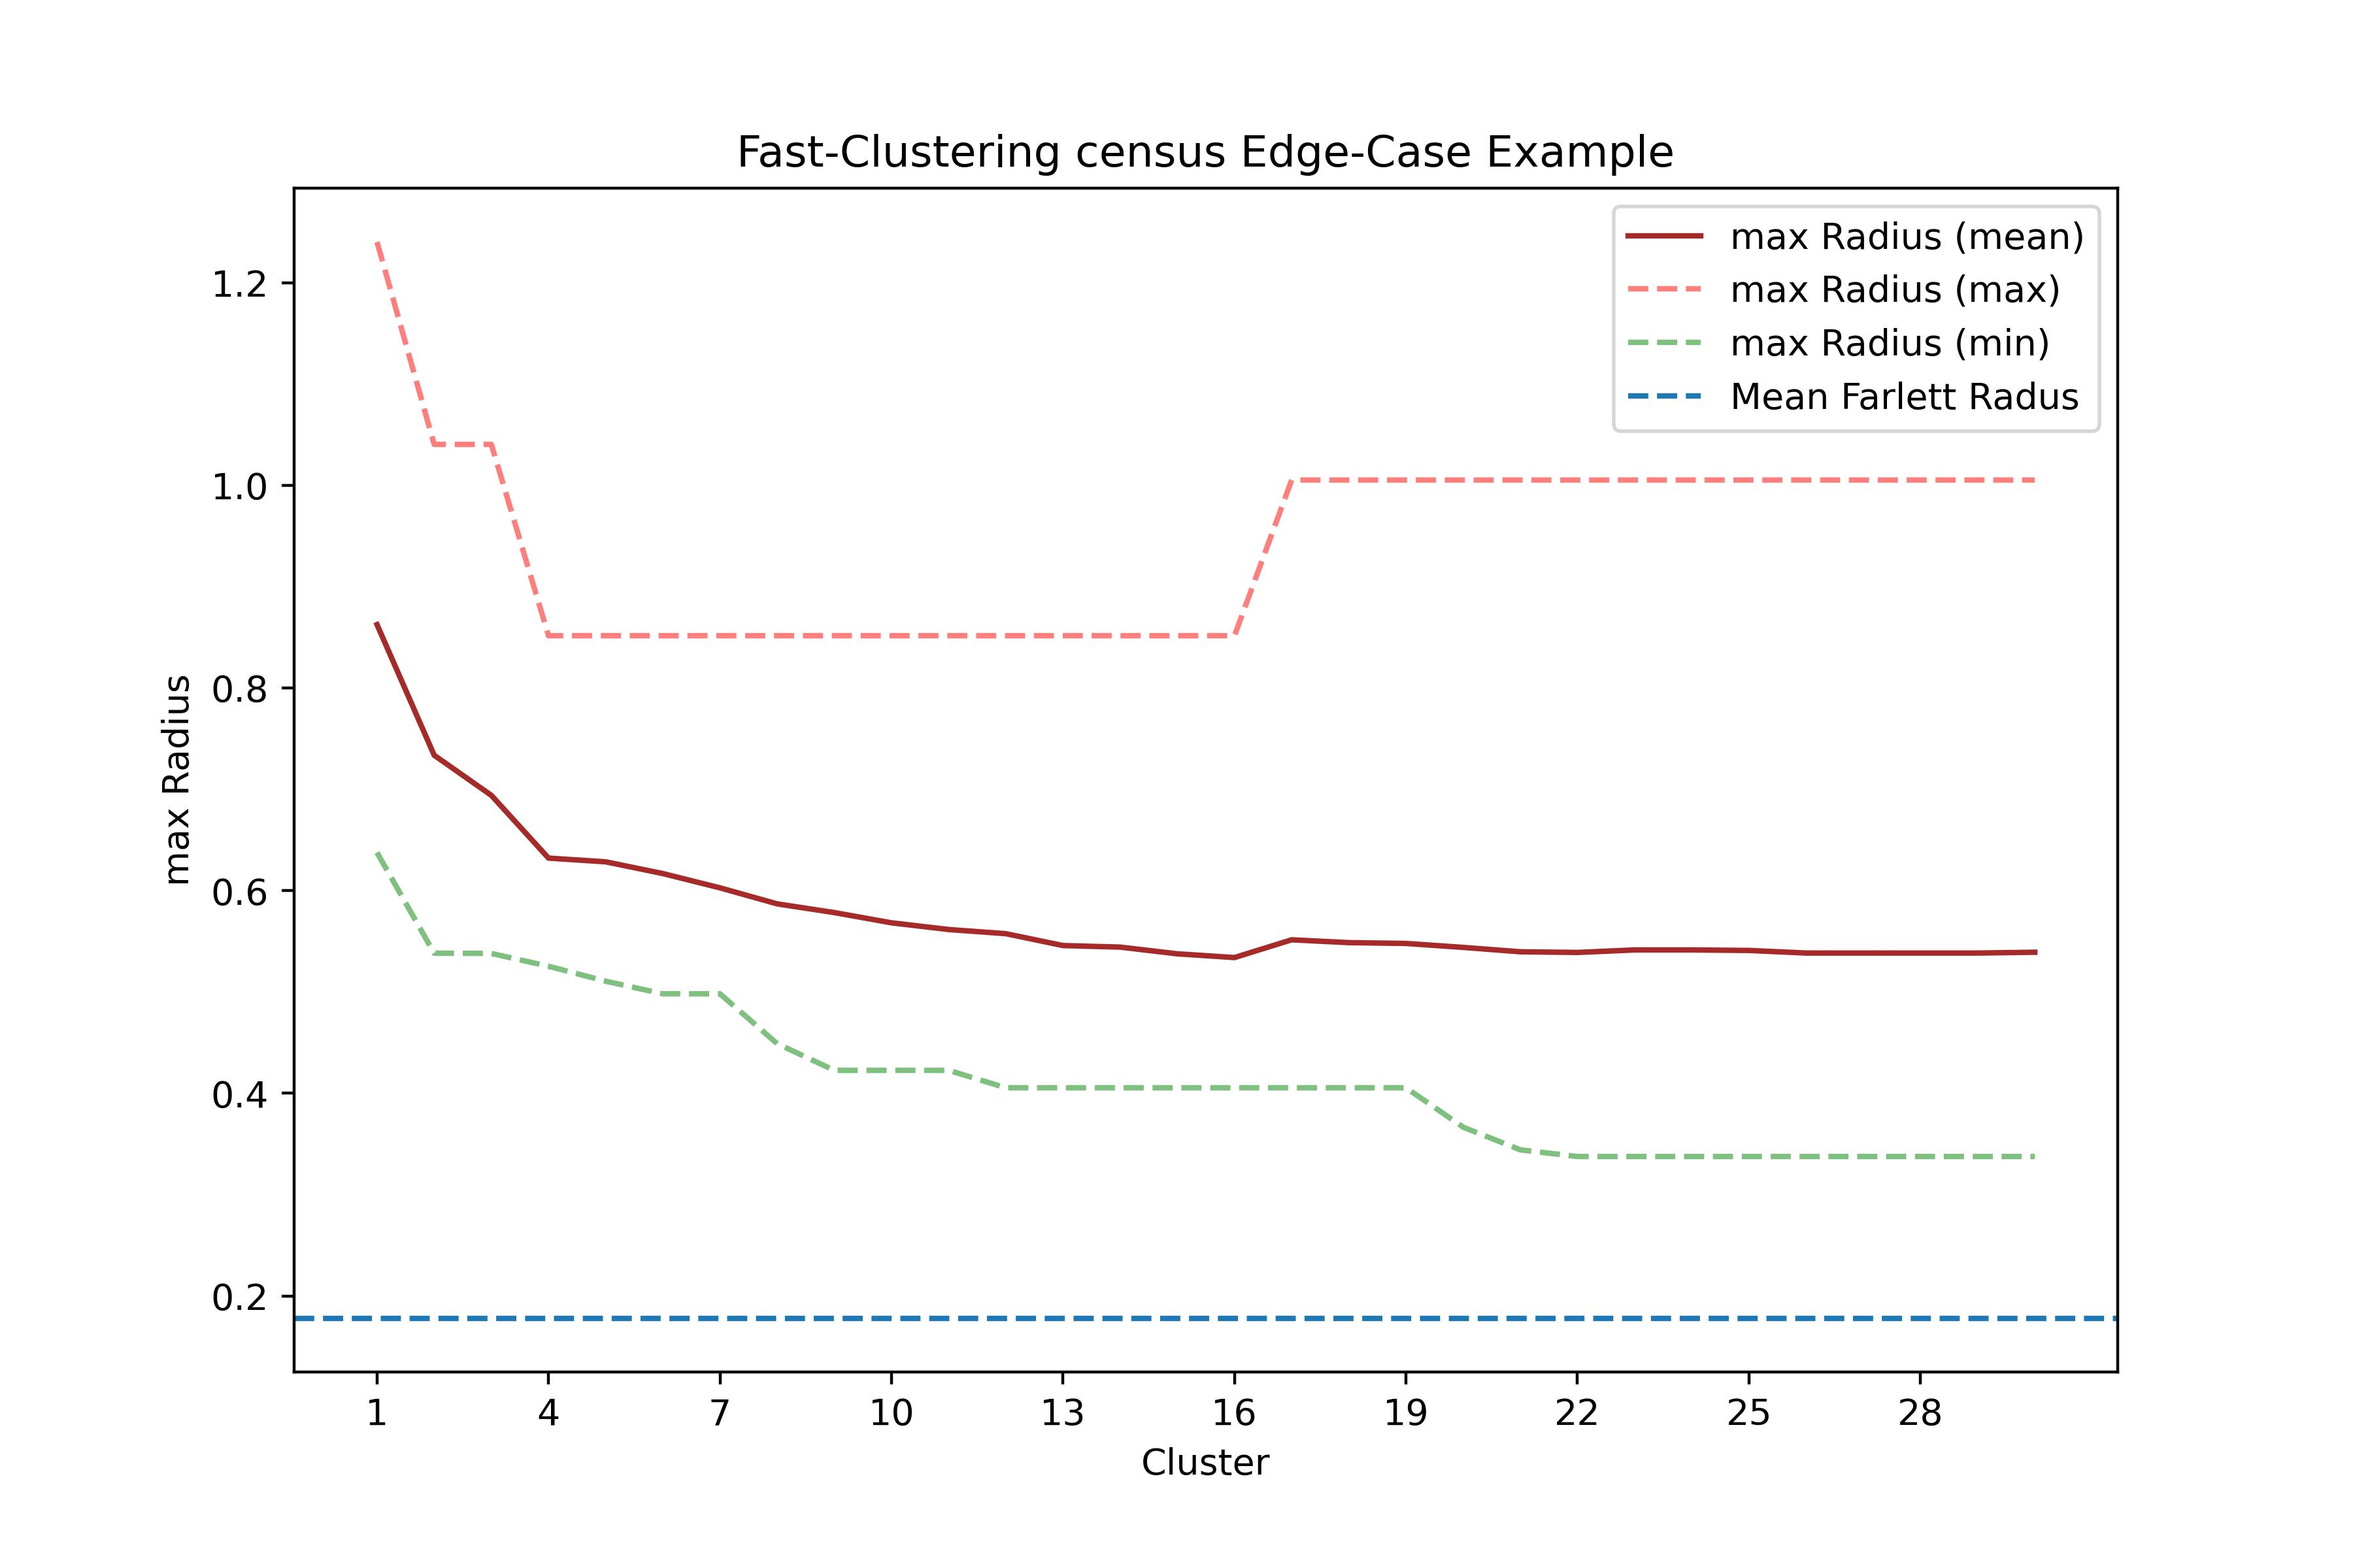
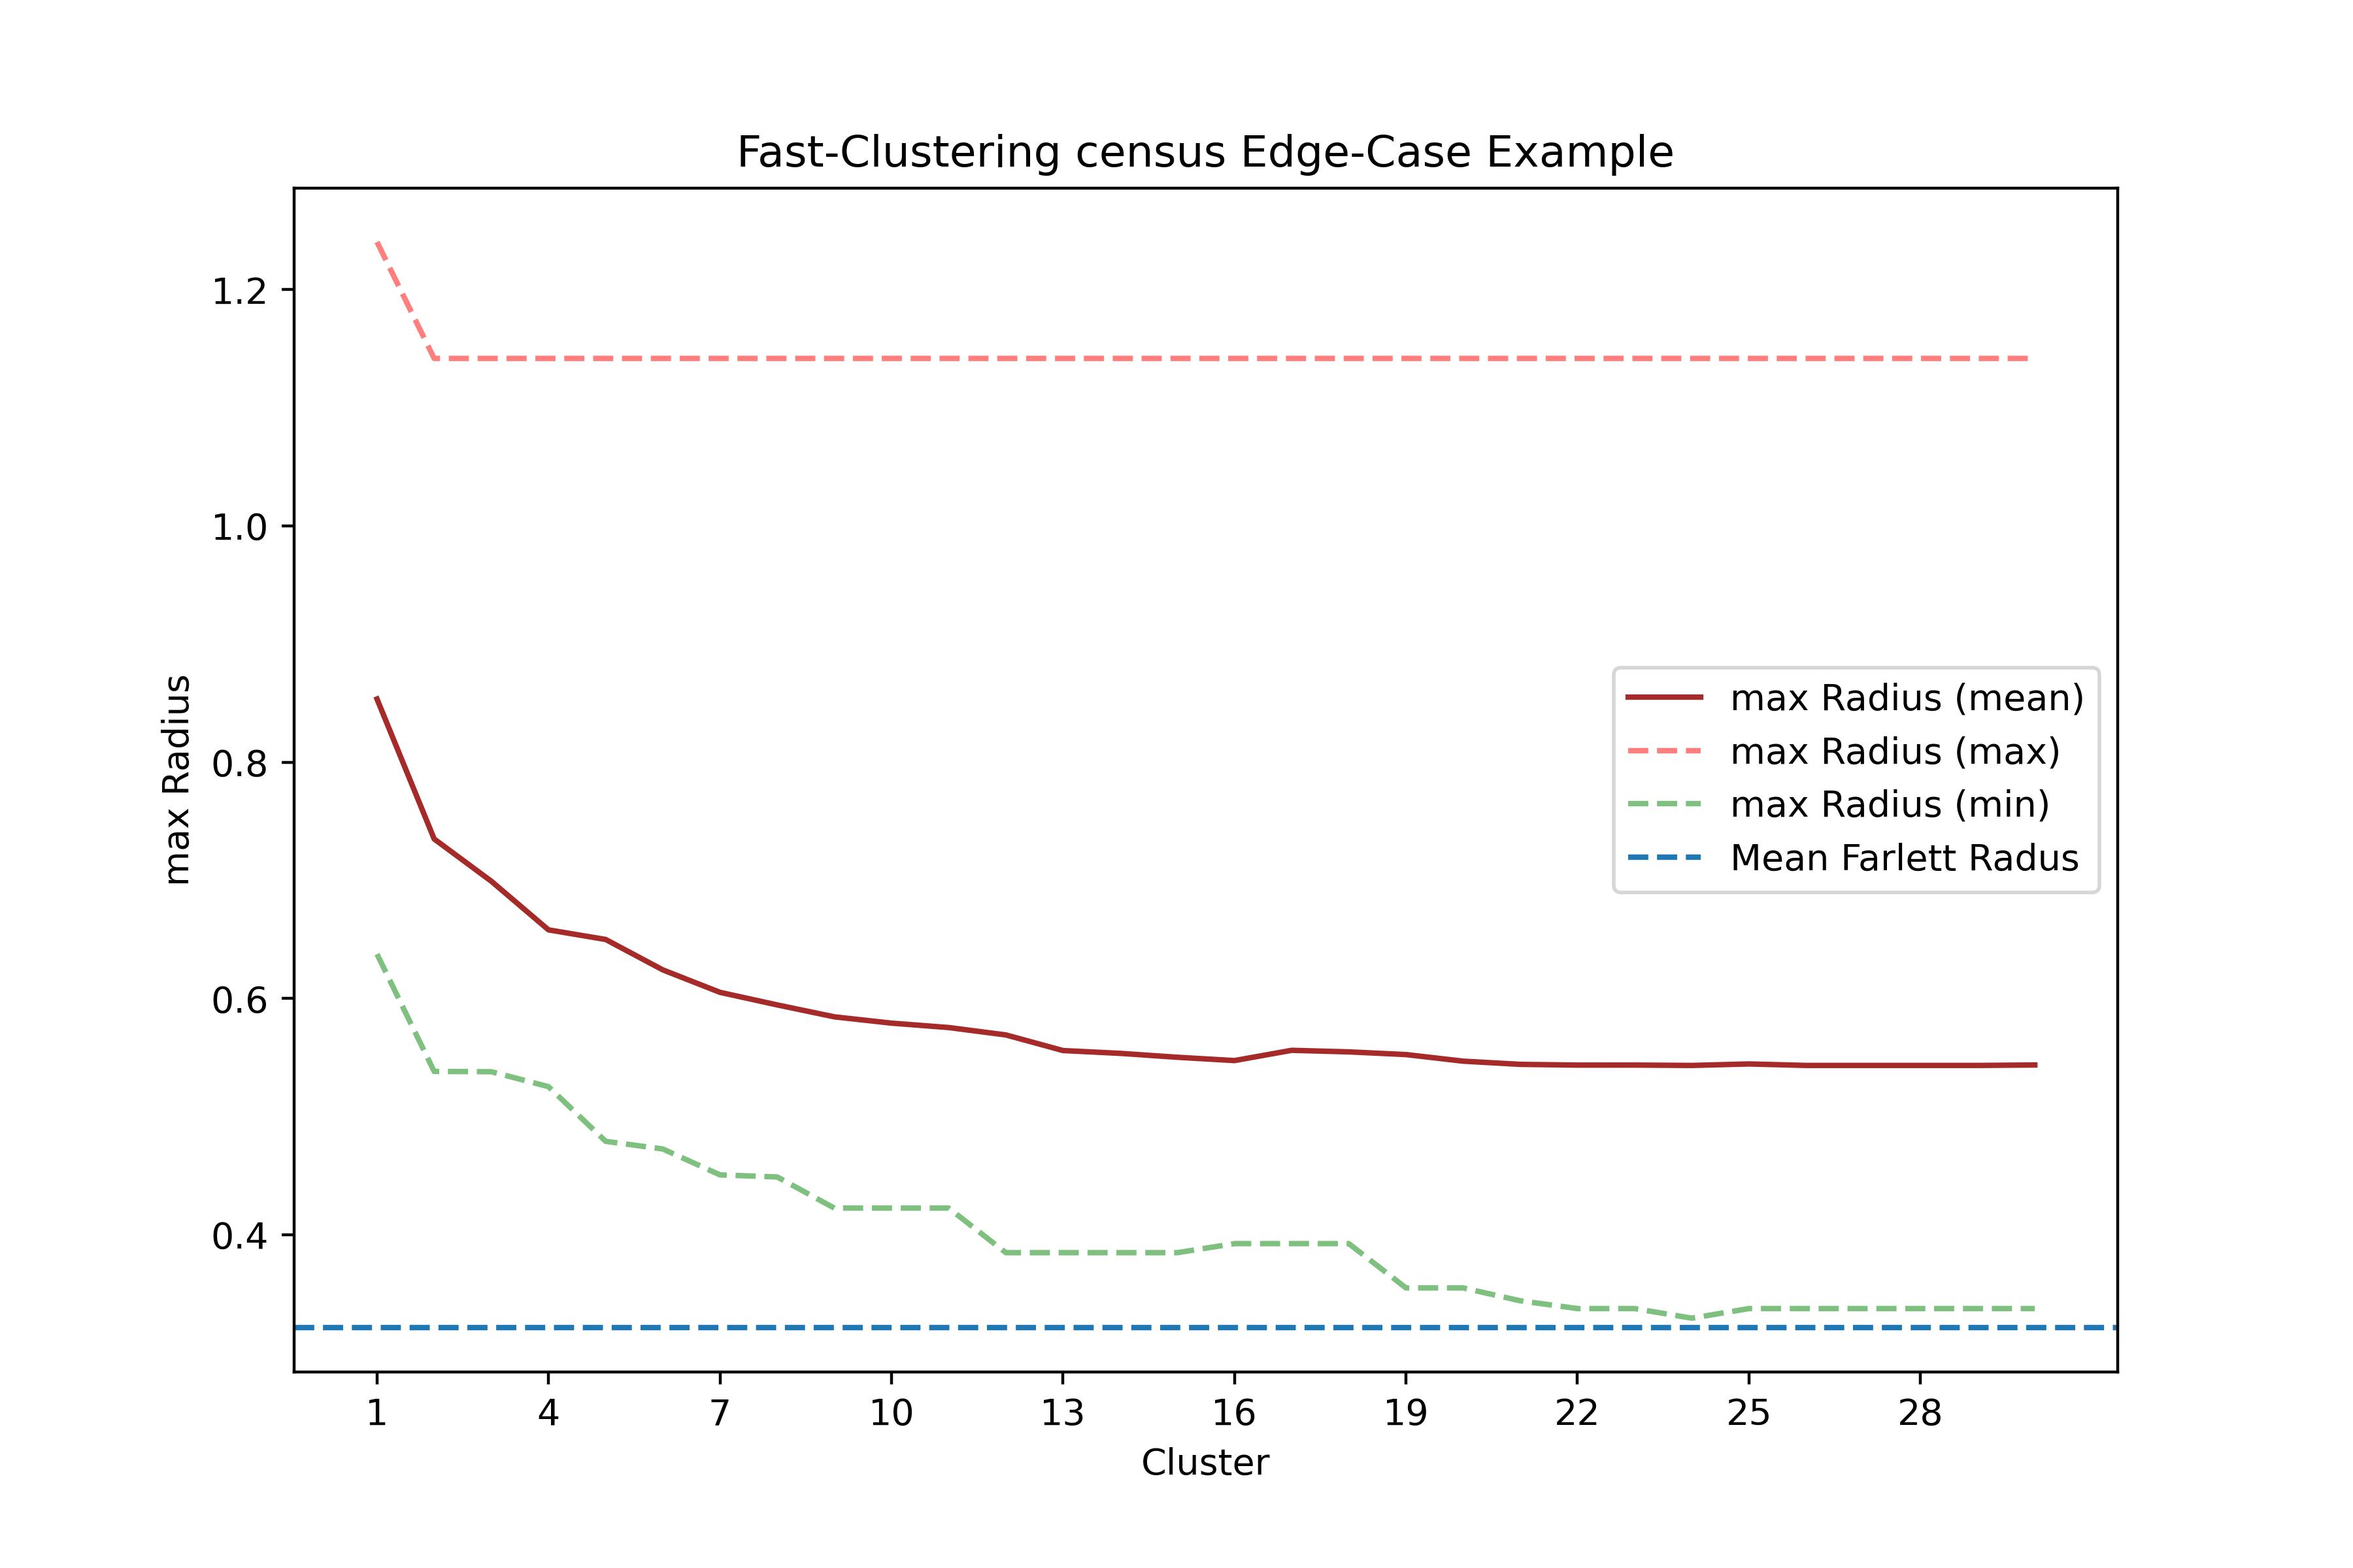
Latex - Min-Cost experiments added
Die Experimente zum Min-Cost-Flow hinzugefügt

Zusätzlich noch die Varianz in die Graphen mit eingefügt

diff --git a/Multicolor-Fair-Clusterin/Pythonskripte/DataAnalyzer.py b/Multicolor-Fair-Clusterin/Pythonskripte/DataAnalyzer.py
@@ -105,6 +105,9 @@ def do_analysis_of_sampleset(samplename, pictureFolder, dataFolder, axis=False, 
     dfImportantValues["minValue"] = dfRadius.min()
     dfImportantValues["upperQuantile"] = dfRadius.quantile(0.75)
     dfImportantValues["lowerQuantile"] = dfRadius.quantile(0.25)
+    dfImportantValues["variance"] = dfRadius.var();
+    
+    
     
     # Median des Fairlett-Radius bilden
     fairRadiusMean = sum(listOfFairlettRadius) / len(listOfFairlettRadius)  
@@ -121,6 +124,7 @@ def do_analysis_of_sampleset(samplename, pictureFolder, dataFolder, axis=False, 
                    f"{algPathAdd} - {samplename} k-center", algorithm=algorithm)
     else:
         build_plot_axis(axis, dfImportantValues, fairlettRadiusMean=fairRadiusMean, algorithm=algorithm)
+        add_plot_variance(axis, dfImportantValues, algorithm=algorithm)
 
     return
 
@@ -191,6 +195,29 @@ def build_plot_axis(axis, dfRadius, fairlettRadiusMean=0, algorithm="g"):
     
     axis.set_xticks(list(range(1, len(dfRadius) + 1, intervalls)))
 
+
+
+# # # Füllt den Graphen mit der Varianz # # #
+def add_plot_variance(axis, dfRadius, algorithm):
+    
+    # Bessere Beschriftung
+    algName = "Gonzalez-Clustering"
+    algColor = "lightblue"
+    if(algorithm == "r"):
+        algName = "Red-Clustering"
+        algColor = "pink"
+    if(algorithm == "f"):
+        algName = "Fast-Clustering"
+        algColor = "palegreen"
+
+    # Gonzalez erstmal ausschließen
+    if not (algorithm == "g") :
+        
+        # Varianz in den Graphen einfügen
+        axis.fill_between(dfRadius["clustersize"], 
+                         dfRadius["mean"]-dfRadius["variance"]/2, dfRadius["mean"] + dfRadius["variance"]/2, 
+                         color = algColor, label = f"Variance {algName}")
+        
 
 
 

diff --git a/Latex/experimentsPipeline.tex b/Latex/experimentsPipeline.tex
@@ -40,7 +40,7 @@
         Um die Algorithmen zu vergleichen betrachten wir ihre Güte auf den Test-Daten mit verschiedener Anzahl an Clustern.
         \begin{figure}
             \centering
-            \includegraphics[height=\textheight-29pt]{fig/OutputPictures/Collective Clued(Cluster-30).jpg}
+            \includegraphics[height=\textheight-29pt]{fig/OutputPictures/Collective Clued with Variance.jpg}
             \caption{Zusammengefasste kosten der Cluster bis zu 30 Cluster}
             \label{fig:CluedQuality30}
         \end{figure}
@@ -55,6 +55,16 @@
                 \includegraphics[height=(\textheight/2-40pt)]{fig/Edge-Case bigger maxRadius/Edge-Case Curve.jpg}
                 \caption{Kosten mit Median und Min/Max des Zensusdatensatzes mit den ersten 10 Subsamples}
                 \label{fig:Edge-Case-Curve}
+            \end{figure}
+
+        \subsubsection{Min-Cost-Test}
+            Wir haben auch knapp getestet, ob sich die Ergebnisse verbessern lassen, wenn man beim Fast-Anchor-Clustering \ref{sec:Fast-Anchor-Clustering} statt eines Max-Flows einen Min-Cost-Flow \ref{sec:Min-Cost-Flow} benutzt und die Unterschiede (auf einem kleineren Teildatensatz) dargestellt. Wobei links die Analyse mit einem Max-Flow \ref{sec:Max-Flow} und rechts die Analyse mit einem Min-Cost-Flow \ref{sec:Min-Cost-Flow} dargestellt wird.
+
+            \begin{figure}
+                \centering
+                \includegraphics[width=(\textwidth)]{fig/Min-Cost-Try/Comparison Joined.jpg}
+                \caption{Unterschied zwischen einfachen Max-Flow und Min-Cost-Flow}
+                \label{fig:Min-Cost-Flow_comparison}
             \end{figure}
 
 

diff --git a/Latex/usedAlgorithms.tex b/Latex/usedAlgorithms.tex
@@ -26,7 +26,7 @@
         Beim maximalen Fluss versucht man zwischen zwei Knoten, der Quelle $s$ und der Senke $t$, möglichst viel Fluss zu schicken ohne die Flusseigenschaften zu verletzen\cite{Graphen_Skript}. Im Folgenden wird das benutzt, um Knoten verschiedener Farbe in einem Bipatiten Graphen zu matchen.
         Bei der hier verwendeten Implementierung wurde auf die Bibliothek Lemon Library \cite{Lemon-Lib} zurückgegriffen. Diese bietet die Möglichkeit selbst Graphen aufzubauen und dann den Maximalen Fluss in diesen zu berechnen. Verwendet wurde hier der Preflow Algorithmus.
 
-    \subsection{Min-Cost-Flow (nutzen nicht sicher)}
+    \subsection{Min-Cost-Flow} \label{sec:Min-Cost-Flow}
         Es ist auch möglich zusätzlich zum Flusswert auch noch weitere Eigenschaften zu berücksichtigen. Gibt man den Kanten neben der Kapazität auch noch Kosten ist es möglich einen Fluss zu berechnen, welcher maximal ist, aber auch möglichst wenig Kosten verursacht. Dabei sind die Kosten die Summe aller Kantenkosten der Kanten über welche auch Fluss fließt. Hierbei wurde der Capacity Scaling Algorithms, auch aus der Lemon Library \cite{Lemon-Lib} verwendet.
 
 

diff --git a/Multicolor-Fair-Clusterin/Pythonskripte/AutoAnalyzer.py b/Multicolor-Fair-Clusterin/Pythonskripte/AutoAnalyzer.py
@@ -9,10 +9,10 @@ import DataAnalyzer
 
 def main():
     # Programm-Parameter
-    dataFolder = "Data/OutputData/FinalFreeCenter/AnalyzedSubsamples/" # ohne ../ wegen Shellskript
-    pictureFolder = "../Data/OutputData/FinalFreeCenter/Pictures/"
-    clusters = 20
-    numOfSamples = 5
+    dataFolder = "Data/OutputData/Final/AnalyzedSubsamples/" # ohne ../ wegen Shellskript
+    pictureFolder = "../Data/OutputData/Final/Pictures/"
+    clusters = 30
+    numOfSamples = 20
     
     
     # Daten neu in Subsamples unterteilen
